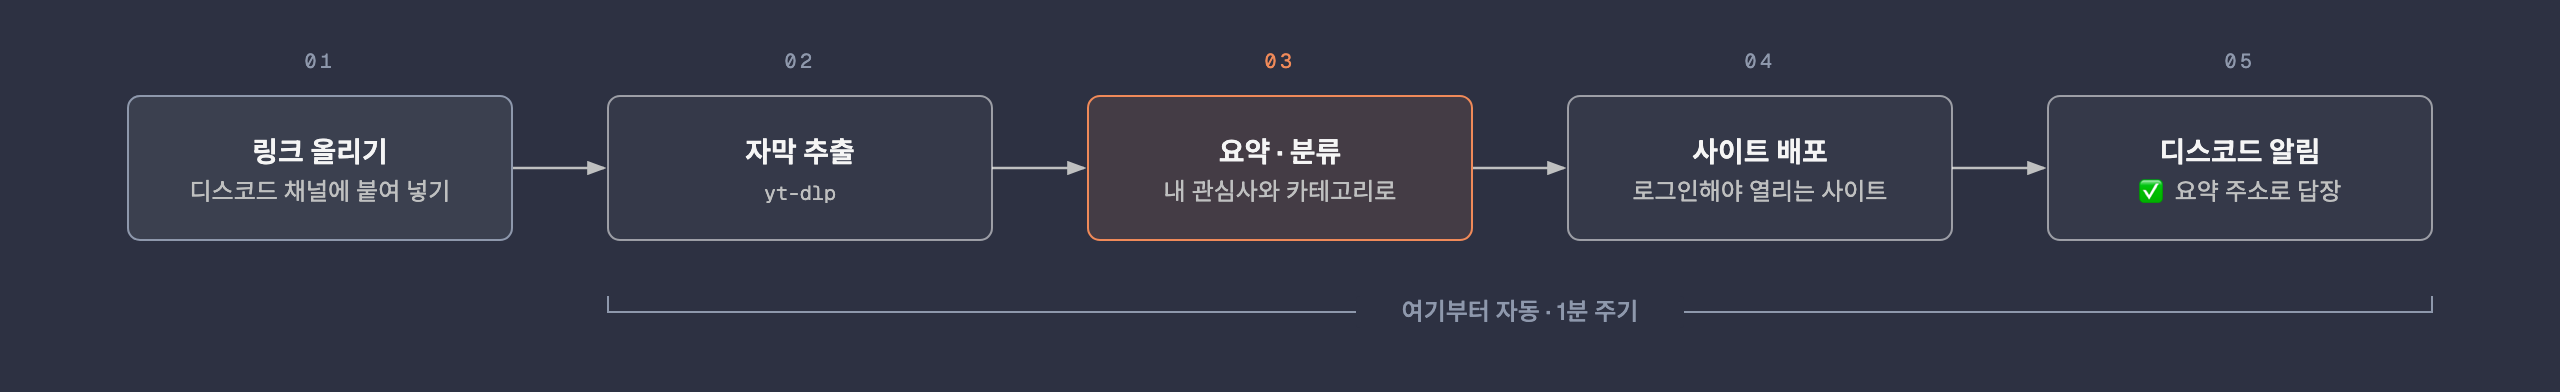
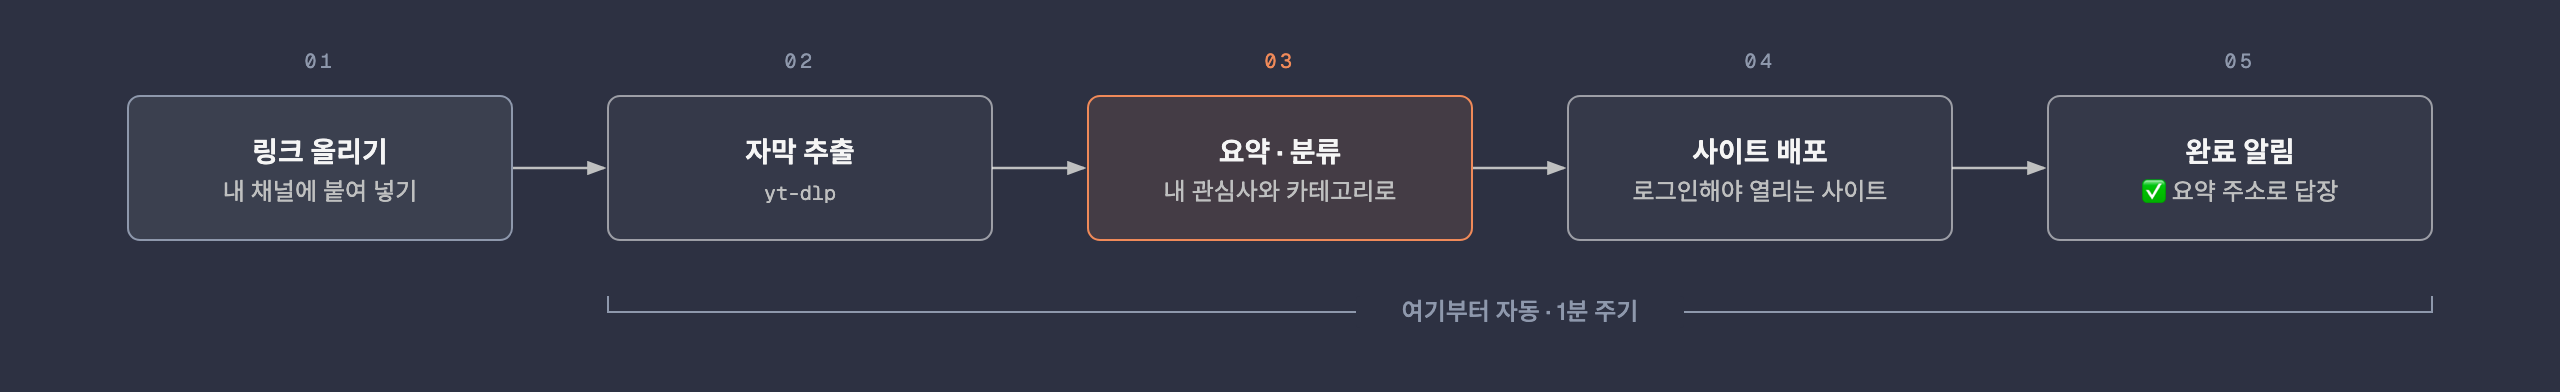
Processing-flow diagram: drop Discord and Claude from the labels
The Korean diagram now says "your channel" and "completion notice"
instead of naming Discord; diagram descriptions and README alt text
say chat and your model. The English image text was already generic.

Changed region(s): [[0.8125, 0.4592, 0.9375, 0.5204], [0.0625, 0.4592, 0.1875, 0.5204], [0.8438, 0.3367, 0.9062, 0.4286]]

diff --git a/docs/diagrams/flow-ko-dark.html b/docs/diagrams/flow-ko-dark.html
@@ -20,7 +20,7 @@
 <h1>링크 하나가 요약 사이트가 되기까지</h1>
 <svg viewBox="0 0 1280 196" xmlns="http://www.w3.org/2000/svg" role="img" aria-labelledby="flow-ko-dark-title flow-ko-dark-desc">
 <title id="flow-ko-dark-title">링크 하나가 요약 사이트가 되기까지</title>
-<desc id="flow-ko-dark-desc">디스코드에 올린 YouTube 링크가 자막 추출, Claude 요약과 분류, 사이트 배포, 디스코드 알림을 거쳐 정리되는 다섯 단계.</desc>
+<desc id="flow-ko-dark-desc">채팅으로 올린 YouTube 링크가 자막 추출, 모델의 요약과 분류, 사이트 배포, 완료 알림을 거쳐 정리되는 다섯 단계.</desc>
 <defs>
   <marker id="arrow" markerWidth="8" markerHeight="6" refX="7" refY="3" orient="auto"><polygon points="0 0, 8 3, 0 6" fill="#bfc0c0"/></marker>
   <marker id="arrow-accent" markerWidth="8" markerHeight="6" refX="7" refY="3" orient="auto"><polygon points="0 0, 8 3, 0 6" fill="#f08a59"/></marker>
@@ -33,7 +33,7 @@
 <path d="M 304 148 V 156 H 1216 V 148" fill="none" stroke="#8e98ac" stroke-width="1"/>
 <rect x="678.0" y="148" width="164" height="16" rx="2" fill="#2d3142"/><text x="760.0" y="160" fill="#8e98ac" font-size="12" font-weight="500" font-family="'Geist', 'Noto Sans KR', 'Apple SD Gothic Neo', sans-serif" text-anchor="middle">여기부터 자동 · 1분 주기</text>
 <text x="160.0" y="34" fill="#8e98ac" font-size="10" font-family="'Geist Mono', ui-monospace, monospace" letter-spacing="0.18em" text-anchor="middle">01</text>
-<rect x="64" y="48" width="192" height="72" rx="6" fill="#2d3142"/><rect x="64" y="48" width="192" height="72" rx="6" fill="rgba(191,192,192,0.10)" stroke="#8e98ac" stroke-width="1"/><text x="160.0" y="81.0" fill="#f5f5f5" font-size="14" font-weight="600" font-family="'Geist', 'Noto Sans KR', 'Apple SD Gothic Neo', sans-serif" text-anchor="middle">링크 올리기</text><text x="160.0" y="100.0" fill="#bfc0c0" font-family="'Geist', 'Noto Sans KR', 'Apple SD Gothic Neo', sans-serif" font-size="12" text-anchor="middle">디스코드 채널에 붙여 넣기</text>
+<rect x="64" y="48" width="192" height="72" rx="6" fill="#2d3142"/><rect x="64" y="48" width="192" height="72" rx="6" fill="rgba(191,192,192,0.10)" stroke="#8e98ac" stroke-width="1"/><text x="160.0" y="81.0" fill="#f5f5f5" font-size="14" font-weight="600" font-family="'Geist', 'Noto Sans KR', 'Apple SD Gothic Neo', sans-serif" text-anchor="middle">링크 올리기</text><text x="160.0" y="100.0" fill="#bfc0c0" font-family="'Geist', 'Noto Sans KR', 'Apple SD Gothic Neo', sans-serif" font-size="12" text-anchor="middle">내 채널에 붙여 넣기</text>
 <text x="400.0" y="34" fill="#8e98ac" font-size="10" font-family="'Geist Mono', ui-monospace, monospace" letter-spacing="0.18em" text-anchor="middle">02</text>
 <rect x="304" y="48" width="192" height="72" rx="6" fill="#2d3142"/><rect x="304" y="48" width="192" height="72" rx="6" fill="rgba(245,245,245,0.04)" stroke="rgba(245,245,245,0.55)" stroke-width="1"/><text x="400.0" y="81.0" fill="#f5f5f5" font-size="14" font-weight="600" font-family="'Geist', 'Noto Sans KR', 'Apple SD Gothic Neo', sans-serif" text-anchor="middle">자막 추출</text><text x="400.0" y="100.0" fill="#bfc0c0" font-family="'Geist Mono', ui-monospace, monospace" font-size="10" text-anchor="middle">yt-dlp</text>
 <text x="640.0" y="34" fill="#f08a59" font-size="10" font-family="'Geist Mono', ui-monospace, monospace" letter-spacing="0.18em" text-anchor="middle">03</text>
@@ -41,7 +41,7 @@
 <text x="880.0" y="34" fill="#8e98ac" font-size="10" font-family="'Geist Mono', ui-monospace, monospace" letter-spacing="0.18em" text-anchor="middle">04</text>
 <rect x="784" y="48" width="192" height="72" rx="6" fill="#2d3142"/><rect x="784" y="48" width="192" height="72" rx="6" fill="rgba(245,245,245,0.04)" stroke="rgba(245,245,245,0.55)" stroke-width="1"/><text x="880.0" y="81.0" fill="#f5f5f5" font-size="14" font-weight="600" font-family="'Geist', 'Noto Sans KR', 'Apple SD Gothic Neo', sans-serif" text-anchor="middle">사이트 배포</text><text x="880.0" y="100.0" fill="#bfc0c0" font-family="'Geist', 'Noto Sans KR', 'Apple SD Gothic Neo', sans-serif" font-size="12" text-anchor="middle">로그인해야 열리는 사이트</text>
 <text x="1120.0" y="34" fill="#8e98ac" font-size="10" font-family="'Geist Mono', ui-monospace, monospace" letter-spacing="0.18em" text-anchor="middle">05</text>
-<rect x="1024" y="48" width="192" height="72" rx="6" fill="#2d3142"/><rect x="1024" y="48" width="192" height="72" rx="6" fill="rgba(245,245,245,0.04)" stroke="rgba(245,245,245,0.55)" stroke-width="1"/><text x="1120.0" y="81.0" fill="#f5f5f5" font-size="14" font-weight="600" font-family="'Geist', 'Noto Sans KR', 'Apple SD Gothic Neo', sans-serif" text-anchor="middle">디스코드 알림</text><text x="1120.0" y="100.0" fill="#bfc0c0" font-family="'Geist', 'Noto Sans KR', 'Apple SD Gothic Neo', sans-serif" font-size="12" text-anchor="middle">✅ 요약 주소로 답장</text>
+<rect x="1024" y="48" width="192" height="72" rx="6" fill="#2d3142"/><rect x="1024" y="48" width="192" height="72" rx="6" fill="rgba(245,245,245,0.04)" stroke="rgba(245,245,245,0.55)" stroke-width="1"/><text x="1120.0" y="81.0" fill="#f5f5f5" font-size="14" font-weight="600" font-family="'Geist', 'Noto Sans KR', 'Apple SD Gothic Neo', sans-serif" text-anchor="middle">완료 알림</text><text x="1120.0" y="100.0" fill="#bfc0c0" font-family="'Geist', 'Noto Sans KR', 'Apple SD Gothic Neo', sans-serif" font-size="12" text-anchor="middle">✅ 요약 주소로 답장</text>
 </svg>
 </div>
 </body>

diff --git a/docs/diagrams/flow-ko-light.html b/docs/diagrams/flow-ko-light.html
@@ -20,7 +20,7 @@
 <h1>링크 하나가 요약 사이트가 되기까지</h1>
 <svg viewBox="0 0 1280 196" xmlns="http://www.w3.org/2000/svg" role="img" aria-labelledby="flow-ko-light-title flow-ko-light-desc">
 <title id="flow-ko-light-title">링크 하나가 요약 사이트가 되기까지</title>
-<desc id="flow-ko-light-desc">디스코드에 올린 YouTube 링크가 자막 추출, Claude 요약과 분류, 사이트 배포, 디스코드 알림을 거쳐 정리되는 다섯 단계.</desc>
+<desc id="flow-ko-light-desc">채팅으로 올린 YouTube 링크가 자막 추출, 모델의 요약과 분류, 사이트 배포, 완료 알림을 거쳐 정리되는 다섯 단계.</desc>
 <defs>
   <marker id="arrow" markerWidth="8" markerHeight="6" refX="7" refY="3" orient="auto"><polygon points="0 0, 8 3, 0 6" fill="#4f5d75"/></marker>
   <marker id="arrow-accent" markerWidth="8" markerHeight="6" refX="7" refY="3" orient="auto"><polygon points="0 0, 8 3, 0 6" fill="#eb6c36"/></marker>
@@ -33,7 +33,7 @@
 <path d="M 304 148 V 156 H 1216 V 148" fill="none" stroke="#7a8399" stroke-width="1"/>
 <rect x="678.0" y="148" width="164" height="16" rx="2" fill="#f5f5f5"/><text x="760.0" y="160" fill="#7a8399" font-size="12" font-weight="500" font-family="'Geist', 'Noto Sans KR', 'Apple SD Gothic Neo', sans-serif" text-anchor="middle">여기부터 자동 · 1분 주기</text>
 <text x="160.0" y="34" fill="#7a8399" font-size="10" font-family="'Geist Mono', ui-monospace, monospace" letter-spacing="0.18em" text-anchor="middle">01</text>
-<rect x="64" y="48" width="192" height="72" rx="6" fill="#f5f5f5"/><rect x="64" y="48" width="192" height="72" rx="6" fill="rgba(79,93,117,0.10)" stroke="#7a8399" stroke-width="1"/><text x="160.0" y="81.0" fill="#2d3142" font-size="14" font-weight="600" font-family="'Geist', 'Noto Sans KR', 'Apple SD Gothic Neo', sans-serif" text-anchor="middle">링크 올리기</text><text x="160.0" y="100.0" fill="#4f5d75" font-family="'Geist', 'Noto Sans KR', 'Apple SD Gothic Neo', sans-serif" font-size="12" text-anchor="middle">디스코드 채널에 붙여 넣기</text>
+<rect x="64" y="48" width="192" height="72" rx="6" fill="#f5f5f5"/><rect x="64" y="48" width="192" height="72" rx="6" fill="rgba(79,93,117,0.10)" stroke="#7a8399" stroke-width="1"/><text x="160.0" y="81.0" fill="#2d3142" font-size="14" font-weight="600" font-family="'Geist', 'Noto Sans KR', 'Apple SD Gothic Neo', sans-serif" text-anchor="middle">링크 올리기</text><text x="160.0" y="100.0" fill="#4f5d75" font-family="'Geist', 'Noto Sans KR', 'Apple SD Gothic Neo', sans-serif" font-size="12" text-anchor="middle">내 채널에 붙여 넣기</text>
 <text x="400.0" y="34" fill="#7a8399" font-size="10" font-family="'Geist Mono', ui-monospace, monospace" letter-spacing="0.18em" text-anchor="middle">02</text>
 <rect x="304" y="48" width="192" height="72" rx="6" fill="#f5f5f5"/><rect x="304" y="48" width="192" height="72" rx="6" fill="#ffffff" stroke="#2d3142" stroke-width="1"/><text x="400.0" y="81.0" fill="#2d3142" font-size="14" font-weight="600" font-family="'Geist', 'Noto Sans KR', 'Apple SD Gothic Neo', sans-serif" text-anchor="middle">자막 추출</text><text x="400.0" y="100.0" fill="#4f5d75" font-family="'Geist Mono', ui-monospace, monospace" font-size="10" text-anchor="middle">yt-dlp</text>
 <text x="640.0" y="34" fill="#eb6c36" font-size="10" font-family="'Geist Mono', ui-monospace, monospace" letter-spacing="0.18em" text-anchor="middle">03</text>
@@ -41,7 +41,7 @@
 <text x="880.0" y="34" fill="#7a8399" font-size="10" font-family="'Geist Mono', ui-monospace, monospace" letter-spacing="0.18em" text-anchor="middle">04</text>
 <rect x="784" y="48" width="192" height="72" rx="6" fill="#f5f5f5"/><rect x="784" y="48" width="192" height="72" rx="6" fill="#ffffff" stroke="#2d3142" stroke-width="1"/><text x="880.0" y="81.0" fill="#2d3142" font-size="14" font-weight="600" font-family="'Geist', 'Noto Sans KR', 'Apple SD Gothic Neo', sans-serif" text-anchor="middle">사이트 배포</text><text x="880.0" y="100.0" fill="#4f5d75" font-family="'Geist', 'Noto Sans KR', 'Apple SD Gothic Neo', sans-serif" font-size="12" text-anchor="middle">로그인해야 열리는 사이트</text>
 <text x="1120.0" y="34" fill="#7a8399" font-size="10" font-family="'Geist Mono', ui-monospace, monospace" letter-spacing="0.18em" text-anchor="middle">05</text>
-<rect x="1024" y="48" width="192" height="72" rx="6" fill="#f5f5f5"/><rect x="1024" y="48" width="192" height="72" rx="6" fill="#ffffff" stroke="#2d3142" stroke-width="1"/><text x="1120.0" y="81.0" fill="#2d3142" font-size="14" font-weight="600" font-family="'Geist', 'Noto Sans KR', 'Apple SD Gothic Neo', sans-serif" text-anchor="middle">디스코드 알림</text><text x="1120.0" y="100.0" fill="#4f5d75" font-family="'Geist', 'Noto Sans KR', 'Apple SD Gothic Neo', sans-serif" font-size="12" text-anchor="middle">✅ 요약 주소로 답장</text>
+<rect x="1024" y="48" width="192" height="72" rx="6" fill="#f5f5f5"/><rect x="1024" y="48" width="192" height="72" rx="6" fill="#ffffff" stroke="#2d3142" stroke-width="1"/><text x="1120.0" y="81.0" fill="#2d3142" font-size="14" font-weight="600" font-family="'Geist', 'Noto Sans KR', 'Apple SD Gothic Neo', sans-serif" text-anchor="middle">완료 알림</text><text x="1120.0" y="100.0" fill="#4f5d75" font-family="'Geist', 'Noto Sans KR', 'Apple SD Gothic Neo', sans-serif" font-size="12" text-anchor="middle">✅ 요약 주소로 답장</text>
 </svg>
 </div>
 </body>

diff --git a/docs/diagrams/flow-en-light.html b/docs/diagrams/flow-en-light.html
@@ -20,7 +20,7 @@
 <h1>From one link to a summary page</h1>
 <svg viewBox="0 0 1280 196" xmlns="http://www.w3.org/2000/svg" role="img" aria-labelledby="flow-en-light-title flow-en-light-desc">
 <title id="flow-en-light-title">From one link to a summary page</title>
-<desc id="flow-en-light-desc">Five steps: a YouTube link shared to Discord gets its captions, a Claude summary and category, a page on the private site, and a Discord reply.</desc>
+<desc id="flow-en-light-desc">Five steps: a YouTube link shared in chat gets its captions, a summary and category from your model, a page on the private site, and a reply in chat.</desc>
 <defs>
   <marker id="arrow" markerWidth="8" markerHeight="6" refX="7" refY="3" orient="auto"><polygon points="0 0, 8 3, 0 6" fill="#4f5d75"/></marker>
   <marker id="arrow-accent" markerWidth="8" markerHeight="6" refX="7" refY="3" orient="auto"><polygon points="0 0, 8 3, 0 6" fill="#eb6c36"/></marker>

diff --git a/docs/diagrams/flow-en-dark.html b/docs/diagrams/flow-en-dark.html
@@ -20,7 +20,7 @@
 <h1>From one link to a summary page</h1>
 <svg viewBox="0 0 1280 196" xmlns="http://www.w3.org/2000/svg" role="img" aria-labelledby="flow-en-dark-title flow-en-dark-desc">
 <title id="flow-en-dark-title">From one link to a summary page</title>
-<desc id="flow-en-dark-desc">Five steps: a YouTube link shared to Discord gets its captions, a Claude summary and category, a page on the private site, and a Discord reply.</desc>
+<desc id="flow-en-dark-desc">Five steps: a YouTube link shared in chat gets its captions, a summary and category from your model, a page on the private site, and a reply in chat.</desc>
 <defs>
   <marker id="arrow" markerWidth="8" markerHeight="6" refX="7" refY="3" orient="auto"><polygon points="0 0, 8 3, 0 6" fill="#bfc0c0"/></marker>
   <marker id="arrow-accent" markerWidth="8" markerHeight="6" refX="7" refY="3" orient="auto"><polygon points="0 0, 8 3, 0 6" fill="#f08a59"/></marker>

diff --git a/docs/diagrams/build.py b/docs/diagrams/build.py
@@ -111,7 +111,7 @@ def flow(t, x) -> str:
 
 
 def instruct(t, x) -> str:
-    """디스코드 지시로 사이트를 고치는 흐름 (네 줄 스윔레인)."""
+    """채팅 지시로 사이트를 고치는 흐름 (네 줄 스윔레인)."""
     lanes = x["lanes"]
     lx, top, lane_h, right = 40, 24, 84, 1240
     col0, slot, nw, nh = 200, 172, 148, 56
@@ -158,9 +158,9 @@ def instruct(t, x) -> str:
 TEXT = {
     "ko": {
         "flow": ("링크 하나가 요약 사이트가 되기까지",
-                 "디스코드에 올린 YouTube 링크가 자막 추출, Claude 요약과 분류, 사이트 배포, 디스코드 알림을 거쳐 정리되는 다섯 단계."),
-        "flow_steps": [("링크 올리기", "디스코드 채널에 붙여 넣기"), ("자막 추출", "yt-dlp"), ("요약 · 분류", "내 관심사와 카테고리로"),
-                       ("사이트 배포", "로그인해야 열리는 사이트"), ("디스코드 알림", "✅ 요약 주소로 답장")],
+                 "채팅으로 올린 YouTube 링크가 자막 추출, 모델의 요약과 분류, 사이트 배포, 완료 알림을 거쳐 정리되는 다섯 단계."),
+        "flow_steps": [("링크 올리기", "내 채널에 붙여 넣기"), ("자막 추출", "yt-dlp"), ("요약 · 분류", "내 관심사와 카테고리로"),
+                       ("사이트 배포", "로그인해야 열리는 사이트"), ("완료 알림", "✅ 요약 주소로 답장")],
         "flow_auto": "여기부터 자동 · 1분 주기",
         "instruct": ("채팅 한 줄로 사이트 고치기",
                      "채팅 UI 로 보낸 지시를 t2k 가 받아 사용자의 모델이 그 사람의 파일만 고치고, 승인을 받은 뒤 데이터에 커밋하고(백업 원격이 있으면 푸시) 그 사람의 사이트만 다시 배포하는 흐름."),
@@ -171,7 +171,7 @@ TEXT = {
     },
     "en": {
         "flow": ("From one link to a summary page",
-                 "Five steps: a YouTube link shared to Discord gets its captions, a Claude summary and category, a page on the private site, and a Discord reply."),
+                 "Five steps: a YouTube link shared in chat gets its captions, a summary and category from your model, a page on the private site, and a reply in chat."),
         "flow_steps": [("Share a link", "Paste into your channel"), ("Get captions", "yt-dlp"), ("Summarize & file", "Using your interests"),
                        ("Publish", "To your private site"), ("Notify", "✅ Reply with the link")],
         "flow_auto": "Automatic from here · every minute",

diff --git a/README.ko.md b/README.ko.md
@@ -41,7 +41,7 @@ AI 코딩 에이전트에게 설치를 맡기면 된다. 맥에서 [Claude Code]
 
 <picture>
   <source media="(prefers-color-scheme: dark)" srcset="docs/images/ko/flow-dark.png">
-  <img alt="처리 다섯 단계: 링크 올리기, 자막 추출, 관심사와 카테고리에 맞춘 요약과 분류, 비공개 사이트에 배포, 디스코드에 요약 주소로 답장. 첫 단계 뒤로는 모두 자동이다." src="docs/images/ko/flow-light.png">
+  <img alt="처리 다섯 단계: 링크 올리기, 자막 추출, 관심사와 카테고리에 맞춘 요약과 분류, 비공개 사이트에 배포, 채팅으로 요약 주소 답장. 첫 단계 뒤로는 모두 자동이다." src="docs/images/ko/flow-light.png">
 </picture>
 
 링크를 공유하는 것 외에는 모두 자동이다. 맥이 자막을 읽고, AI 가 요약하고 분류하고, 사이트가 갱신되고, 디스코드로 완료를 알린다.

diff --git a/README.md b/README.md
@@ -41,7 +41,7 @@ Prefer to do it yourself? Follow the [guide](docs/guide.md#install).
 
 <picture>
   <source media="(prefers-color-scheme: dark)" srcset="docs/images/en/flow-dark.png">
-  <img alt="Five steps: share a link, get captions, summarize and file using your interests, publish to your private site, reply in Discord with the link. Everything after the first step is automatic." src="docs/images/en/flow-light.png">
+  <img alt="Five steps: share a link, get captions, summarize and file using your interests, publish to your private site, reply in chat with the link. Everything after the first step is automatic." src="docs/images/en/flow-light.png">
 </picture>
 
 You share a link. Everything after that happens on its own: your Mac reads the captions, AI writes the summary and files it, your site is updated, and Discord tells you it is ready.
